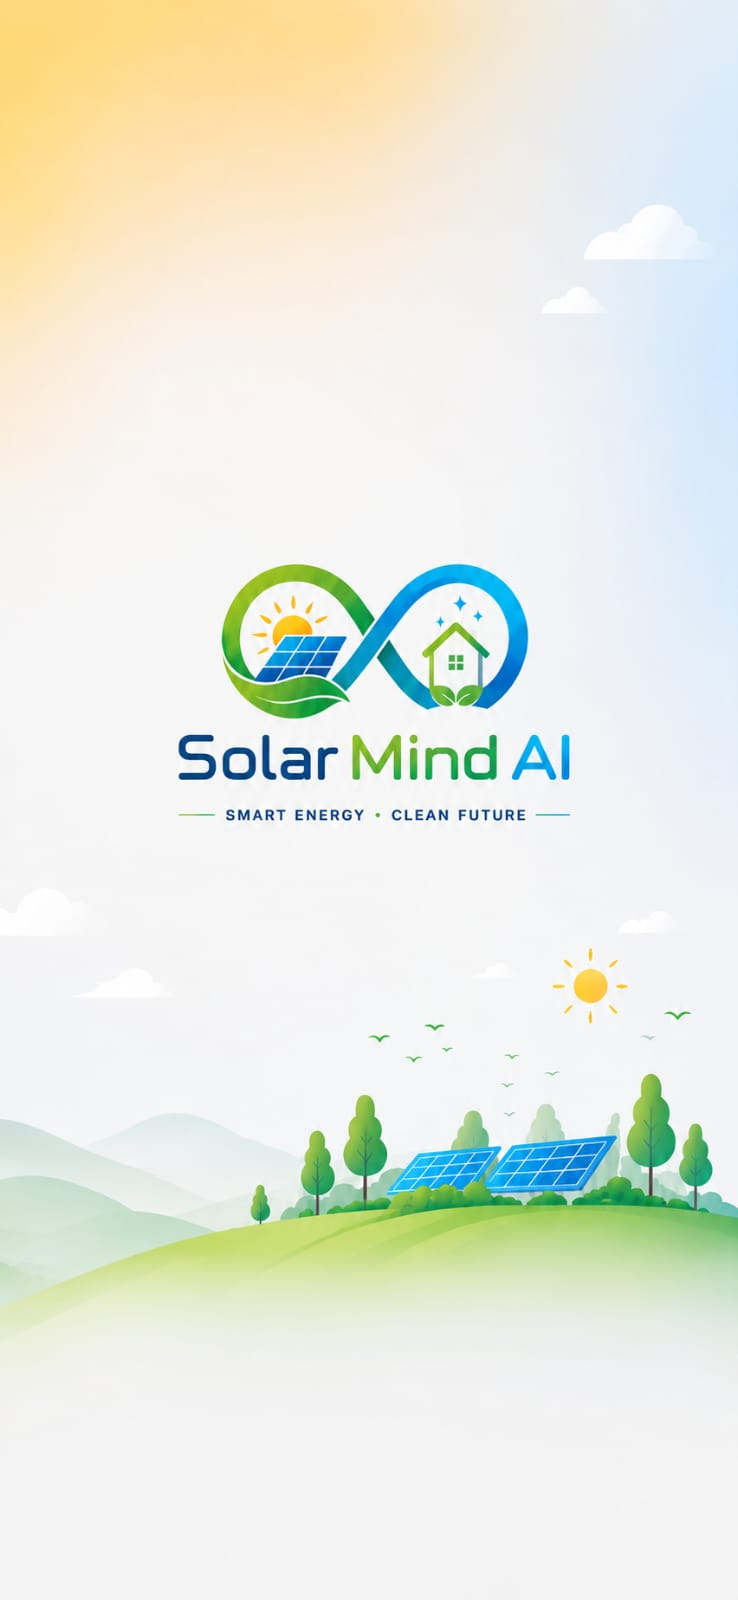
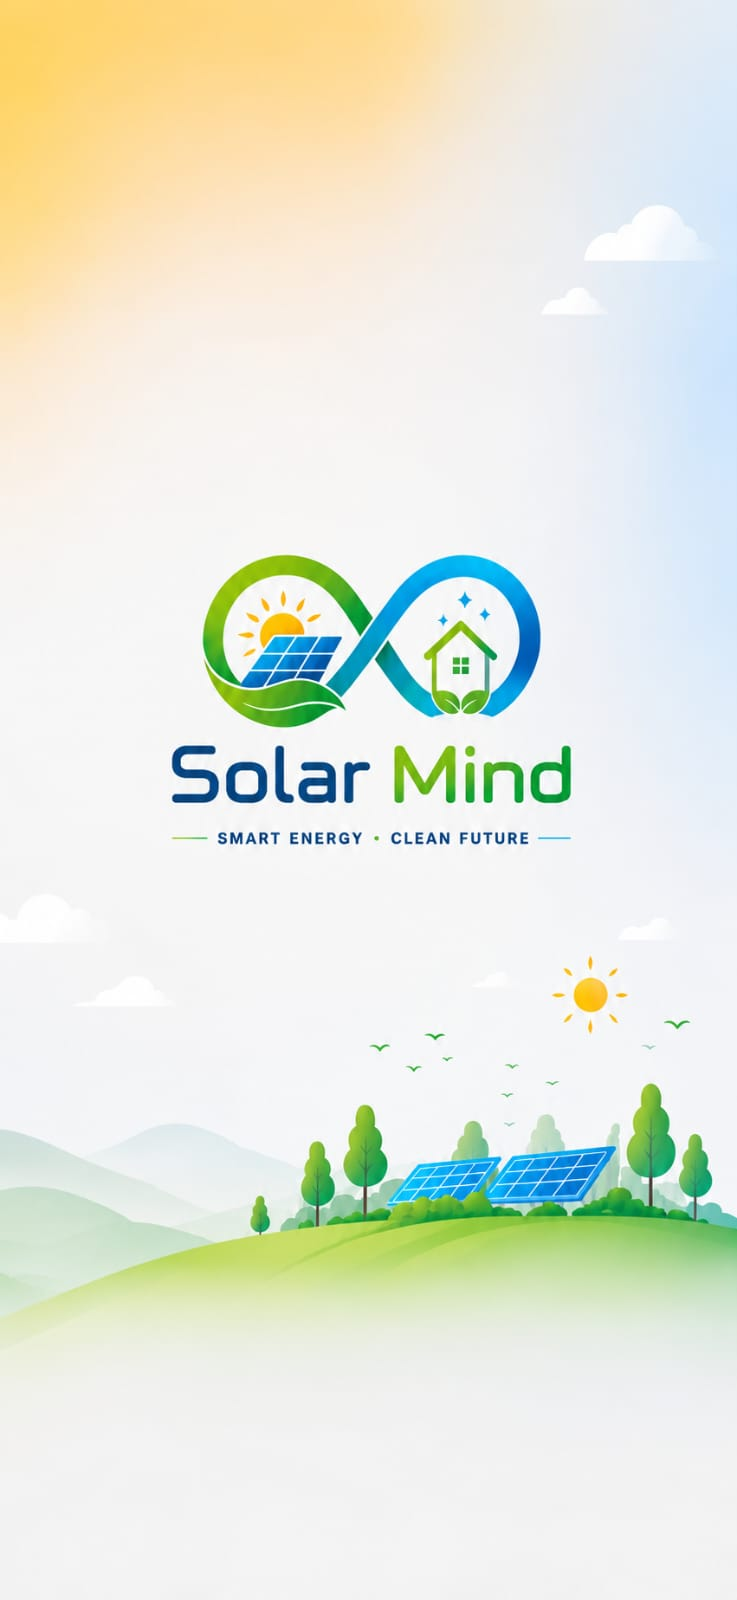
Update Solar Mind AI

diff --git a/Solar Mind AI/SignUpPage.xaml b/Solar Mind AI/SignUpPage.xaml
@@ -16,7 +16,7 @@
                 <Label.FormattedText>
                     <FormattedString>
                         <Span Text="Solar" TextColor="#0D47A1" FontSize="32" FontAttributes="Bold" />
-                        <Span Text="Mind AI" TextColor="#4CAF50" FontSize="32" FontAttributes="Bold" />
+                        <Span Text="Mind" TextColor="#4CAF50" FontSize="32" FontAttributes="Bold" />
                     </FormattedString>
                 </Label.FormattedText>
             </Label>
